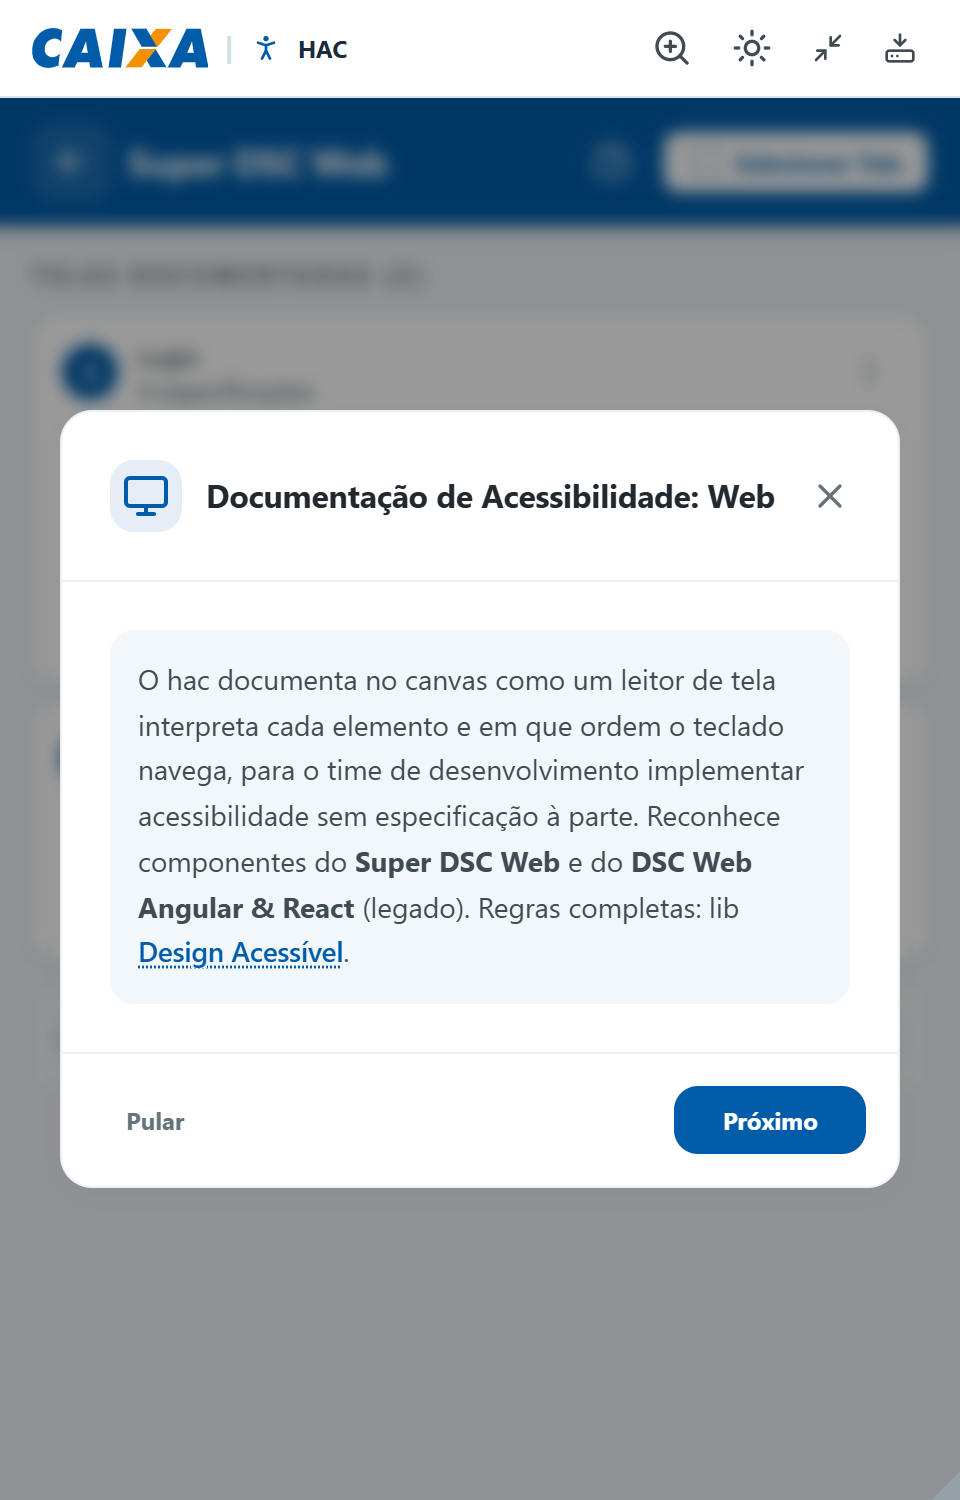
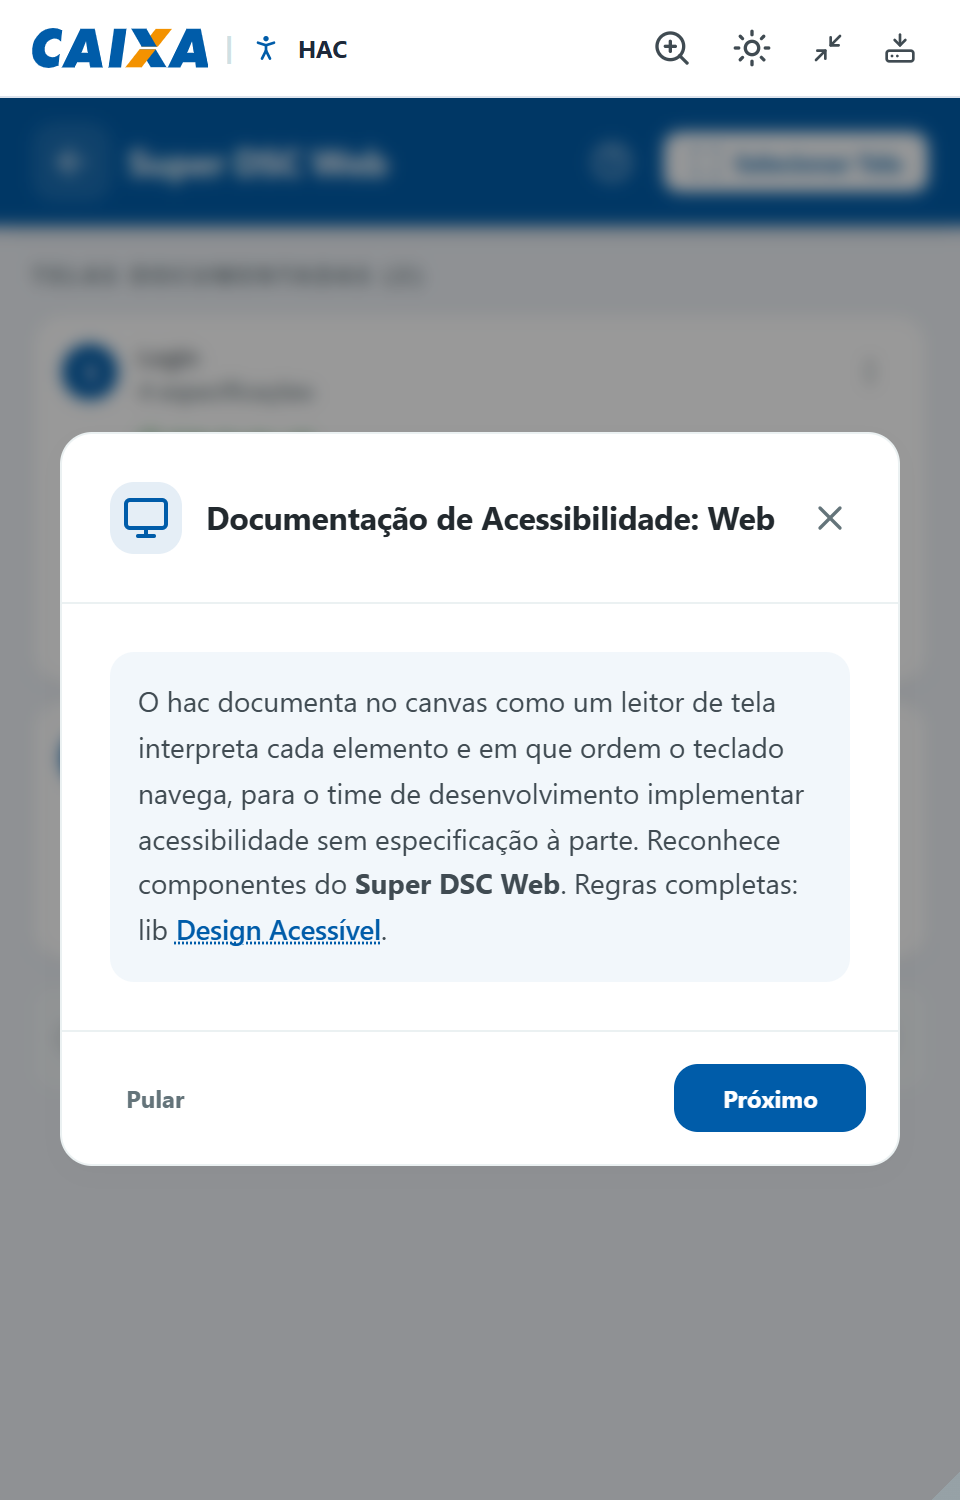
docs(hac): tutorial web sem a escolha da lib legada

Changed region(s): [[0.125, 0.4293, 0.8438, 0.644], [0.0625, 0.276, 0.9375, 0.368], [0.0625, 0.7053, 0.9375, 0.7973]]

diff --git a/plugins/hac/tutorial/tools/roteiros.py b/plugins/hac/tutorial/tools/roteiros.py
@@ -37,8 +37,7 @@ KW = "Tutorial HAC Web · {} de 4"
 w('w1', 'HAC Web | Primeiros passos', [
     abre(KW.format(1), "Primeiros passos", "Este é o HAC, o Handoff de Acessibilidade da CAIXA. Neste vídeo, você começa a documentar uma tela web direto no Figma."),
     cena("proposito", "O que o HAC faz", "O HAC registra como o leitor de tela anuncia cada elemento e em que ordem o teclado percorre a tela. O time de desenvolvimento recebe tudo pronto, no próprio canvas.", "01-home-origem"),
-    cena("lib", "Escolha Web", "Na tela inicial, escolha Super DSC Web.", "01-home-origem", destaque="web"),
-    cena("sublib", "Escolha a biblioteca", "Na web convivem duas bibliotecas: a legada, Web Angular e React, e a nova, Super DSC Web. Escolha a do seu projeto. O HAC reconhece as duas.", "02-home-sublib-web", destaques=["legado", "nova"]),
+    cena("lib", "Escolha Super DSC Web", "Na tela inicial, escolha Super DSC Web. O HAC passa a reconhecer os componentes dessa biblioteca e já abre a lista de telas.", "01-home-origem", destaque="web"),
     cena("selecionar", "Selecione a tela", "Selecione no canvas a tela que você quer documentar e clique em Selecionar Tela.", "03-lista-telas", destaque="selecionar"),
     cena("nomear", "Dê um nome", "Dê um nome para a tela e confirme. Ela ganha um selo numerado e passa a reunir toda a documentação dela.", "04-selecionar-tela", destaque="confirmar"),
     cena("cards", "Acompanhe cada tela", "Cada tela vira um card, com o andamento de cada etapa. Clique no card para abrir o espaço de trabalho.", "03-lista-telas", destaqueManual={"x": 17, "y": 158, "w": 446, "h": 183}),
